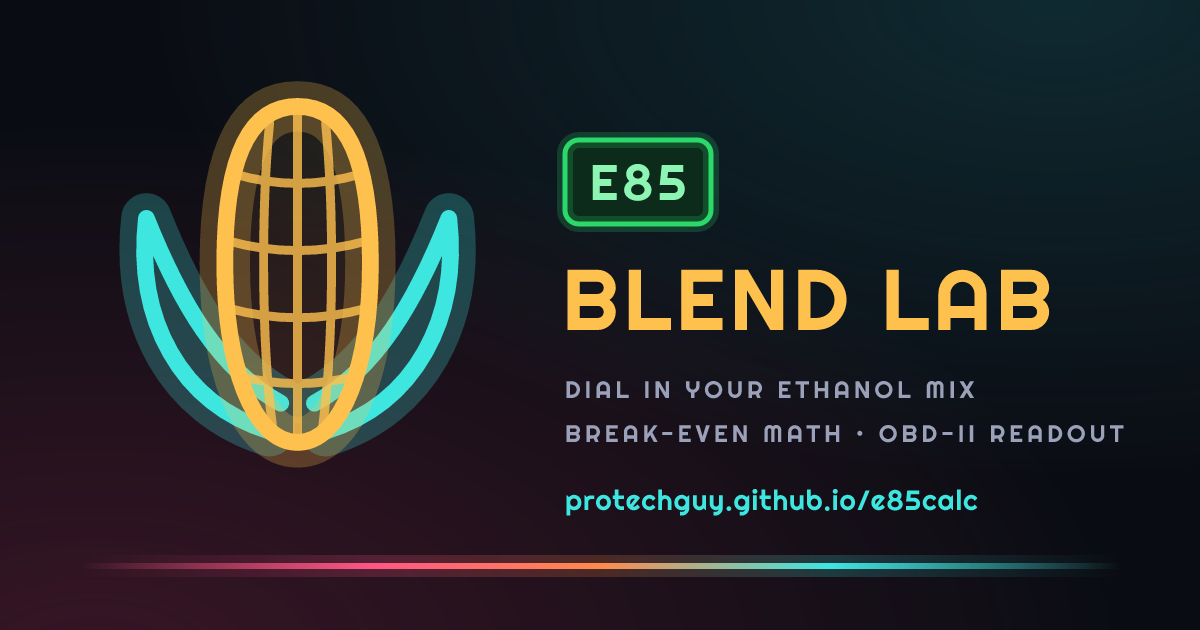
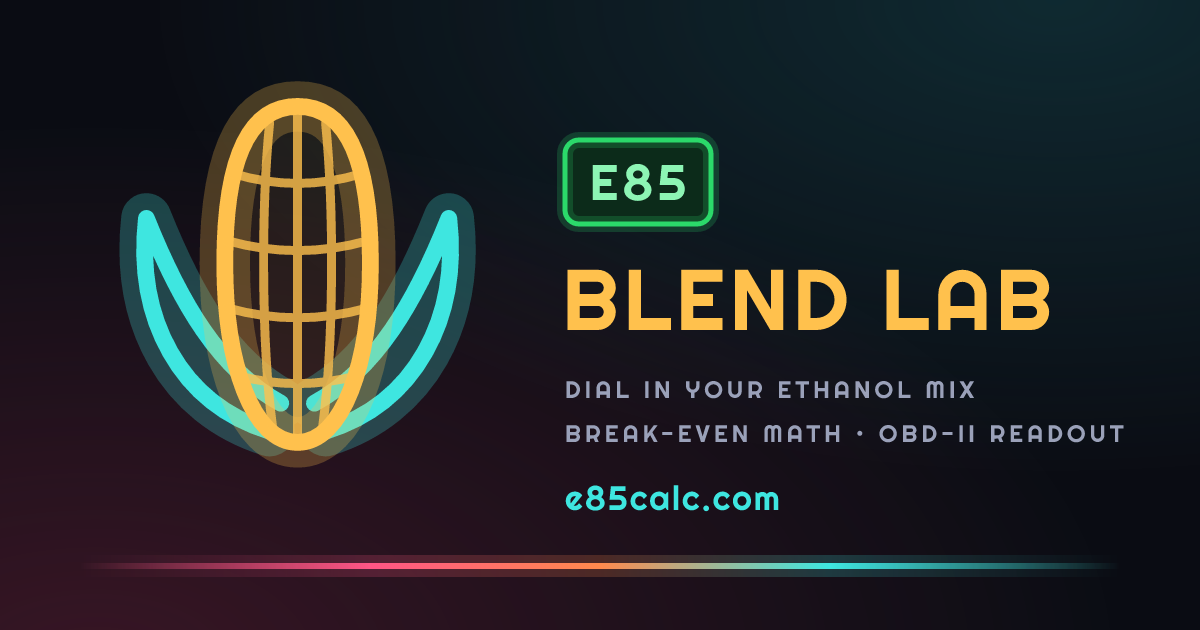
Alpha: move canonical home to e85calc.com
Domain purchased and hosted on Hostinger; all canonical/og/JSON-LD
URLs, sitemap, robots, README, and the social card now point at
https://e85calc.com. The GitHub Pages copy stays live as a mirror
whose canonicals point at the new domain.

Changed region(s): [[0.4625, 0.754, 0.8325, 0.8143]]

diff --git a/costs.html b/costs.html
@@ -10,12 +10,12 @@
 <meta property="og:type" content="website">
 <meta property="og:title" content="Is E85 Worth It? — Cost per Mile &amp; Break-Even">
 <meta property="og:description" content="One number answers it: the break-even E85 price. Below it, every blend saves money per mile.">
-<meta property="og:url" content="https://protechguy.github.io/e85calc/costs.html">
-<meta property="og:image" content="https://protechguy.github.io/e85calc/og-image.png">
+<meta property="og:url" content="https://e85calc.com/costs.html">
+<meta property="og:image" content="https://e85calc.com/og-image.png">
 <meta property="og:image:width" content="1200">
 <meta property="og:image:height" content="630">
 <meta name="twitter:card" content="summary_large_image">
-<link rel="canonical" href="https://protechguy.github.io/e85calc/costs.html">
+<link rel="canonical" href="https://e85calc.com/costs.html">
 <link rel="preconnect" href="https://fonts.googleapis.com">
 <link rel="preconnect" href="https://fonts.gstatic.com" crossorigin>
 <link href="https://fonts.googleapis.com/css2?family=Righteous&family=Outfit:wght@400;500;600;700&display=swap" rel="stylesheet">
@@ -28,7 +28,7 @@
   "@context": "https://schema.org",
   "@type": "WebApplication",
   "name": "E85 Blend Lab — Worth It?",
-  "url": "https://protechguy.github.io/e85calc/costs.html",
+  "url": "https://e85calc.com/costs.html",
   "description": "Is E85 worth it at your local prices? Cost per mile for any ethanol blend and the break-even E85 price, from your own MPG.",
   "applicationCategory": "UtilityApplication",
   "operatingSystem": "Any",

diff --git a/index.html b/index.html
@@ -10,12 +10,12 @@
 <meta property="og:type" content="website">
 <meta property="og:title" content="E85 Blend Lab — Ethanol Mix Calculator">
 <meta property="og:description" content="Dial in your target ethanol blend: tank size, fuel level, pump gas, seasonal E85 — it tells you exactly what to pump.">
-<meta property="og:url" content="https://protechguy.github.io/e85calc/">
-<meta property="og:image" content="https://protechguy.github.io/e85calc/og-image.png">
+<meta property="og:url" content="https://e85calc.com/">
+<meta property="og:image" content="https://e85calc.com/og-image.png">
 <meta property="og:image:width" content="1200">
 <meta property="og:image:height" content="630">
 <meta name="twitter:card" content="summary_large_image">
-<link rel="canonical" href="https://protechguy.github.io/e85calc/">
+<link rel="canonical" href="https://e85calc.com/">
 <link rel="preconnect" href="https://fonts.googleapis.com">
 <link rel="preconnect" href="https://fonts.gstatic.com" crossorigin>
 <link href="https://fonts.googleapis.com/css2?family=Righteous&family=Outfit:wght@400;500;600;700&display=swap" rel="stylesheet">
@@ -28,7 +28,7 @@
   "@context": "https://schema.org",
   "@type": "WebApplication",
   "name": "E85 Blend Lab",
-  "url": "https://protechguy.github.io/e85calc/",
+  "url": "https://e85calc.com/",
   "description": "Free E85 blend calculator: dial in your target ethanol mix from tank size, fuel level, and pump fuel — with factory flex-fuel lookup and OBD-II readout.",
   "applicationCategory": "UtilityApplication",
   "operatingSystem": "Any",

diff --git a/README.md b/README.md
@@ -1,6 +1,6 @@
 # 🚘 E85 Blend Lab
 
-**Live site: <https://protechguy.github.io/e85calc/>**
+**Live site: <https://e85calc.com>**
 
 A sleek, street-car-styled **E85 blend calculator** — retro California neon
 aesthetic with glassy panels, magenta/teal neon, and warm sunset accents.